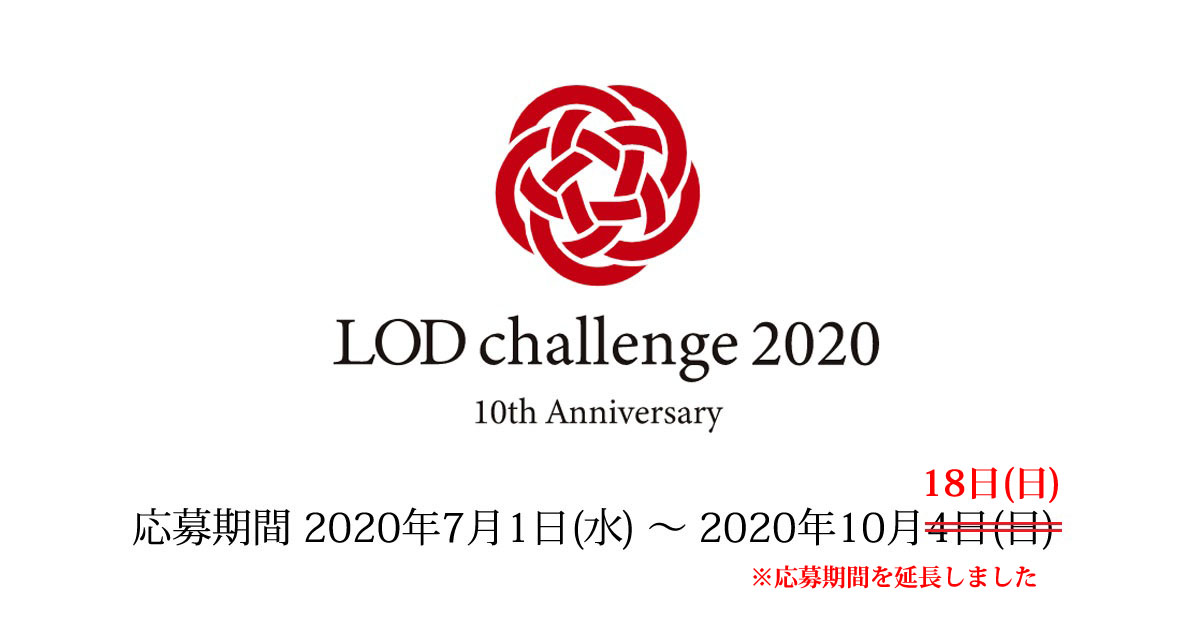
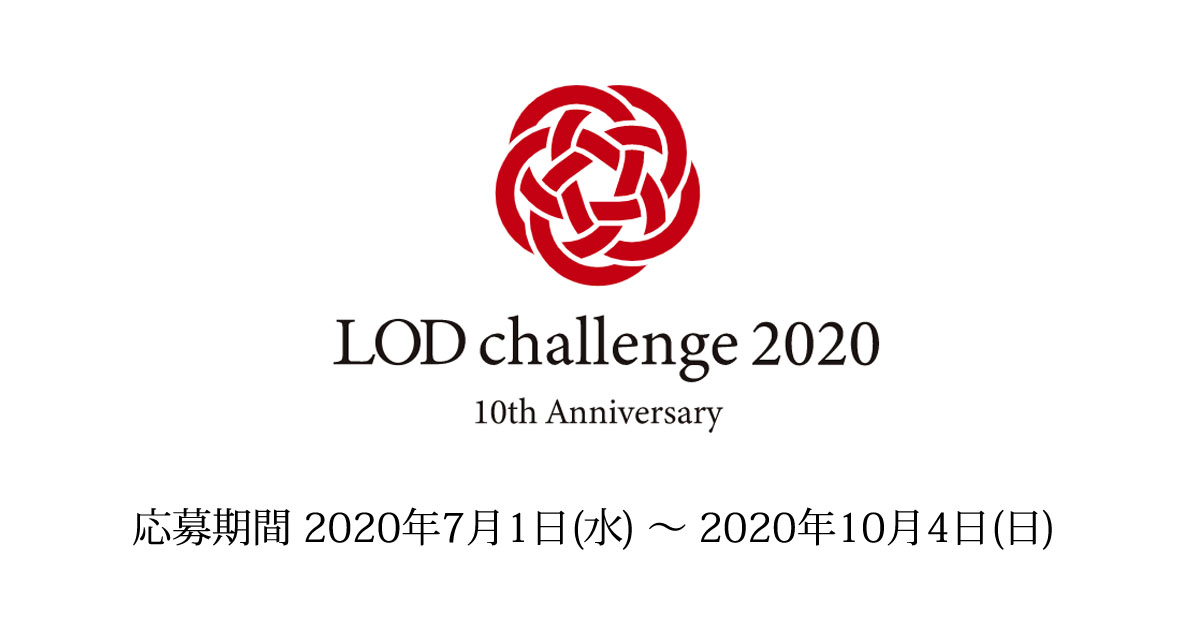
SNSのシェア画像修正

Changed region(s): [[0.7708, 0.7238, 0.8942, 0.8444], [0.6167, 0.8746, 0.8633, 0.9349]]

diff --git a/docs/index.html b/docs/index.html
@@ -13,7 +13,7 @@
 <meta property="og:site_name" content="LODチャレンジ2020" />
 <meta property="og:title" content="LODチャレンジ2020" />
 <meta property="og:url" content="https://2020.lodc.jp/" />
-<meta property="og:image" content="https://2020.lodc.jp/images/img/2020/2020_sns_share_img.jpg" />
+<meta property="og:image" content="https://2020.lodc.jp/images/img/2020/2020_sns_share_img2.jpg" />
 <meta property="og:description" content="LODチャレンジ2020 応募期間：2020.7.1から2020.10.4" />
 <meta property="og:type" content="website" />
 
